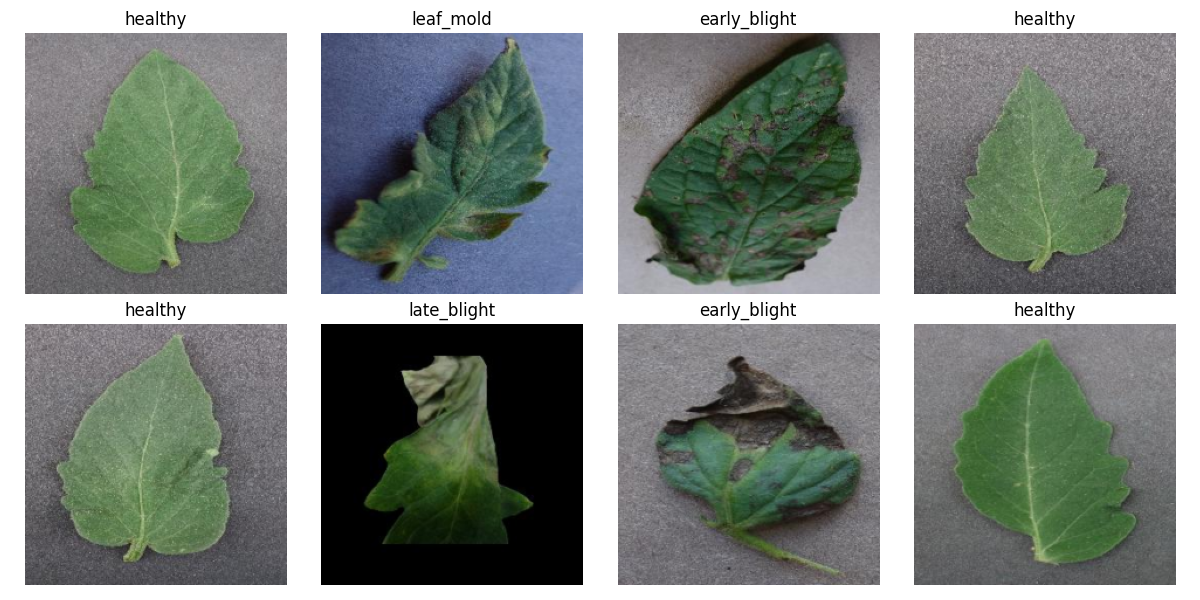
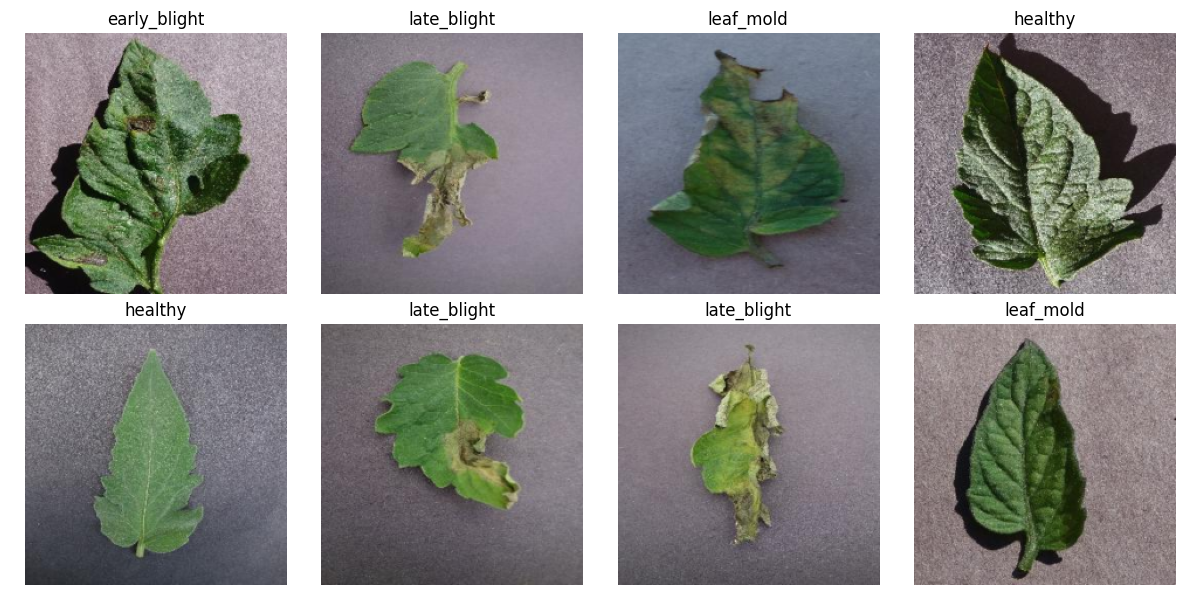
wlcm visualizer

diff --git a/README.md b/README.md
@@ -66,15 +66,16 @@ leaf-disease-cv/
 * scikit-learn 
 
 
-## Batch visualization confirming shape:
- # Dataloader Verification
-
+# Batch visualization confirming shape:
+ ## Dataloader Verification
+  
 Dataset Size: 4360
 Batch Shape: torch.Size([32, 3, 224, 224])
-Sample Labels: tensor([3, 0, 0, 2, 1])
+Sample Labels: tensor([0, 2, 2, 3, 2])
 
-## Class Imbalance Summary
- # Class Distribution
+
+# Class Imbalance Summary
+ ## Class Distribution
 
 early_blight    : 1000
 healthy         : 1591